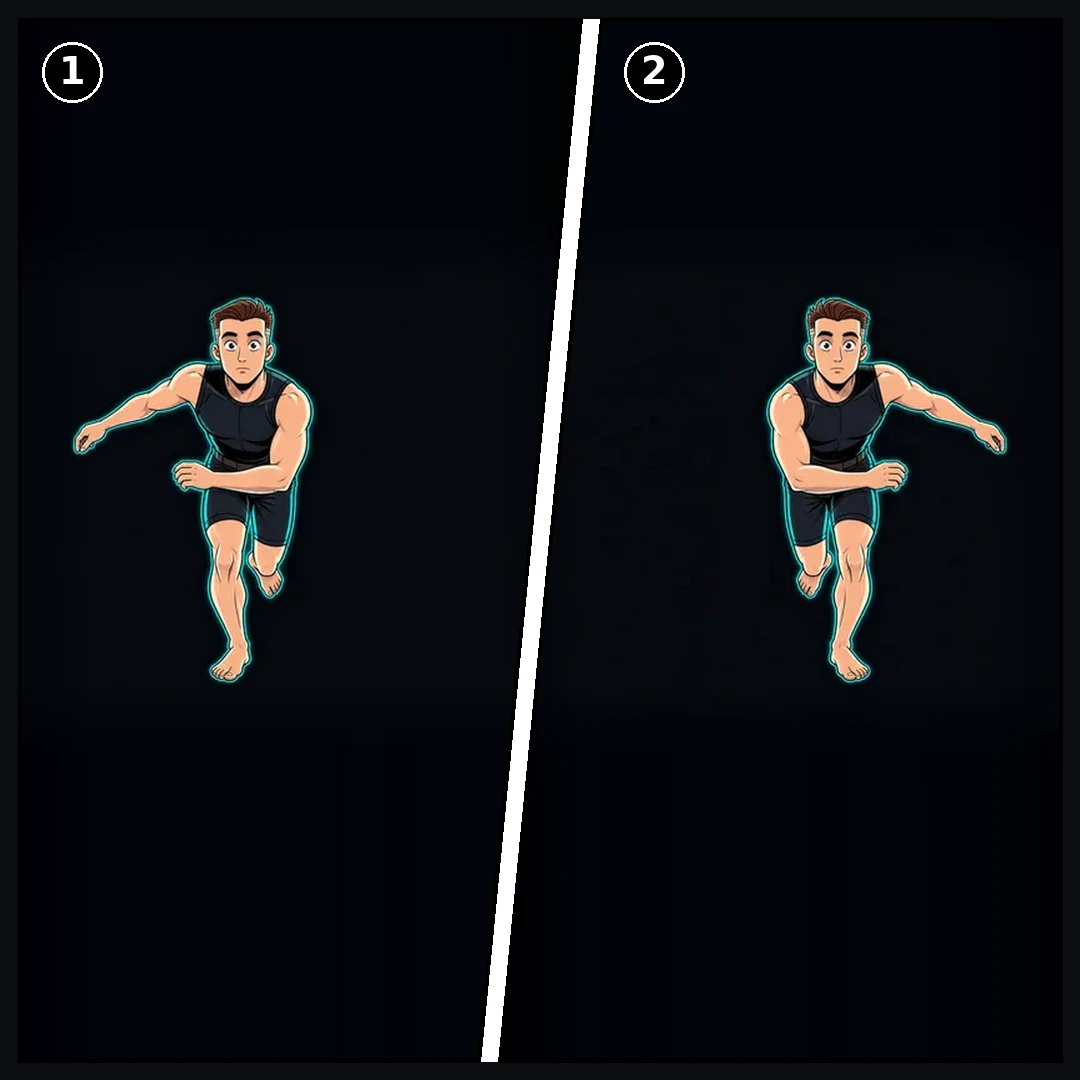
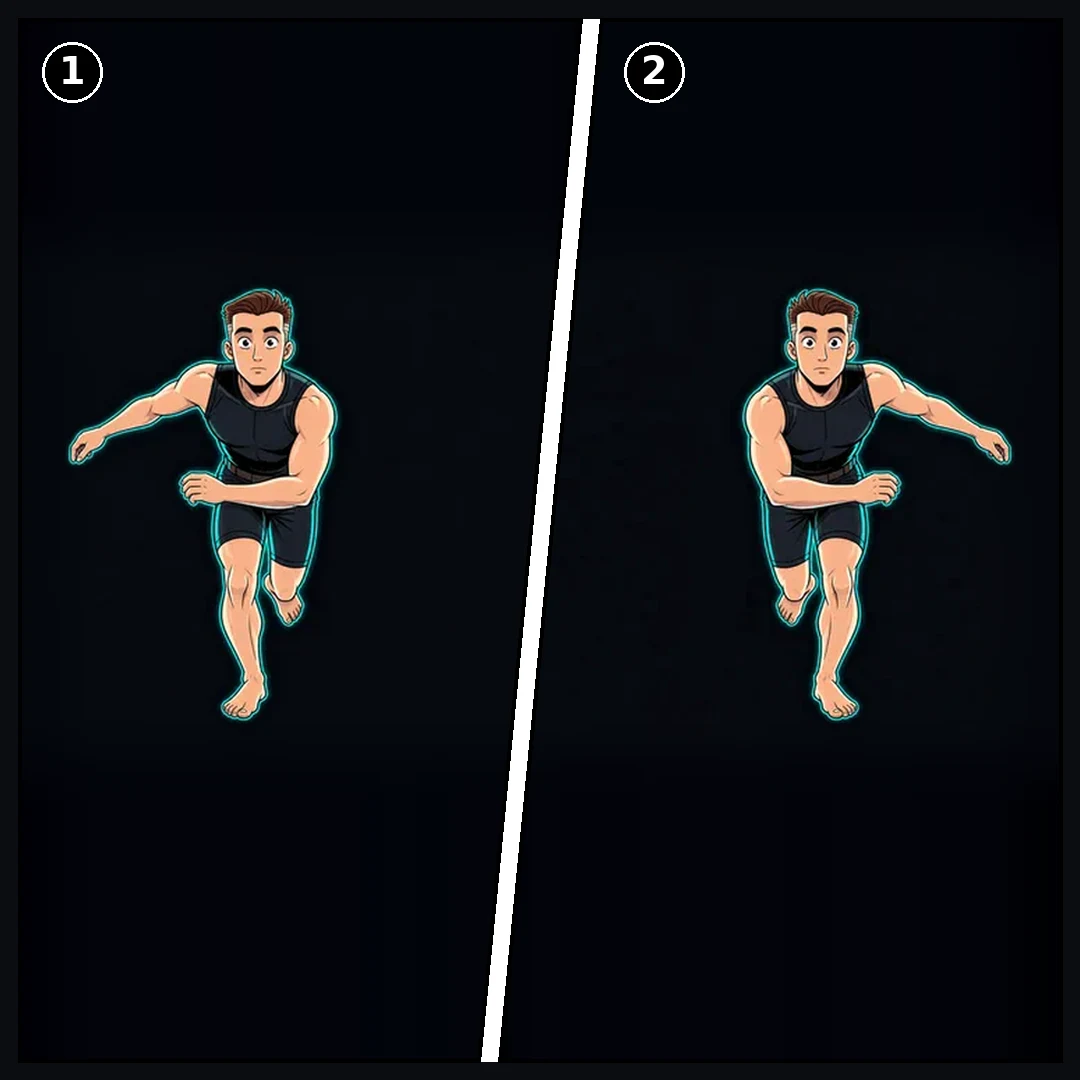
Comic pages, third review: chin-up centred, russian twist lower, skater hop bigger

Changed region(s): [[0.6722, 0.2444, 0.9472, 0.6722], [0.0611, 0.2444, 0.3361, 0.6722]]

diff --git a/scripts/bd-planches.py b/scripts/bd-planches.py
@@ -147,7 +147,7 @@ EXTEND = {"curtsy_squat", "wall_pushup", "star_jump", "jump_squat", "thread_the_
           "russian_twist", "single_leg_glute_bridge", "chin_up", "pullups", "hanging_leg_raise"}
 TUNE = {
     "bear_crawl": [None, (1, 0, 0.06)],
-    "chin_up": [(1.25, 0, 0), (1.25, 0, 0.03)],
+    "chin_up": [(1.25, 0, 0), (1.25, -0.025, 0.03)],
     "crunch": [(1, 0, -0.05), (1, 0, 0.06)],
     "flutter_kicks": [None, (1, 0, 0.06)],
     "hanging_leg_raise": [(1.2, 0, 0.03), (1.1, -0.04, 0.03)],
@@ -157,8 +157,9 @@ TUNE = {
     "negative_pullup": [(1.35, -0.06, 0.04), (1.35, -0.03, 0.02)],
     "pullups": [(1.35, 0, 0.03), (1.35, 0, 0.03)],
     "reverse_crunch": [(1.1, 0, 0), (1.1, 0, 0)],
-    "russian_twist": [None, (1.12, 0, 0.07)],
+    "russian_twist": [None, (1.12, 0, 0.11)],
     "single_leg_glute_bridge": [None, (1, 0, 0.07)],
+    "skater_hop": [(1.12, 0.04, 0.02), (1.12, -0.04, 0.02)],
     "thread_the_needle": [(1.15, 0, 0), (1.25, 0, 0)],
     "toes_to_bar": [None, None, (1.25, 0, 0.03)],
     "windshield_wipers": [(0.92, 0, -0.03), (1, 0.03, 0), None],
